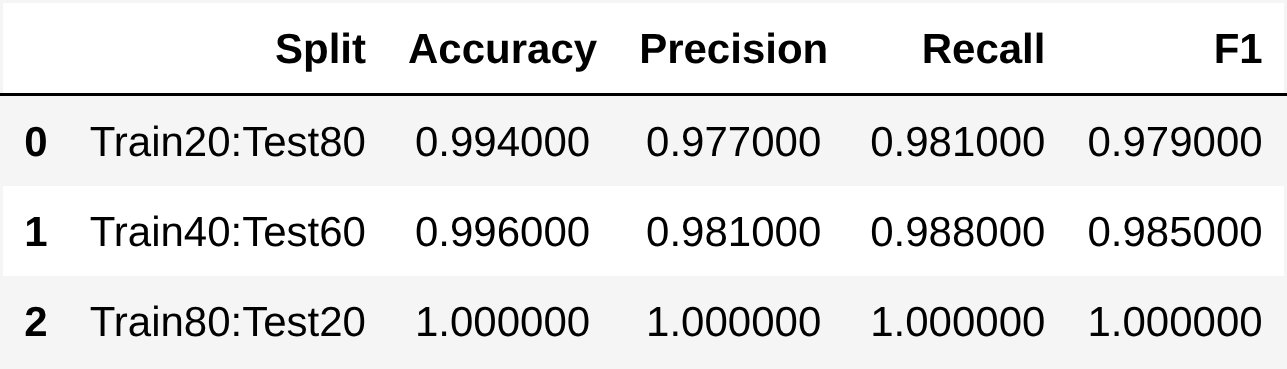
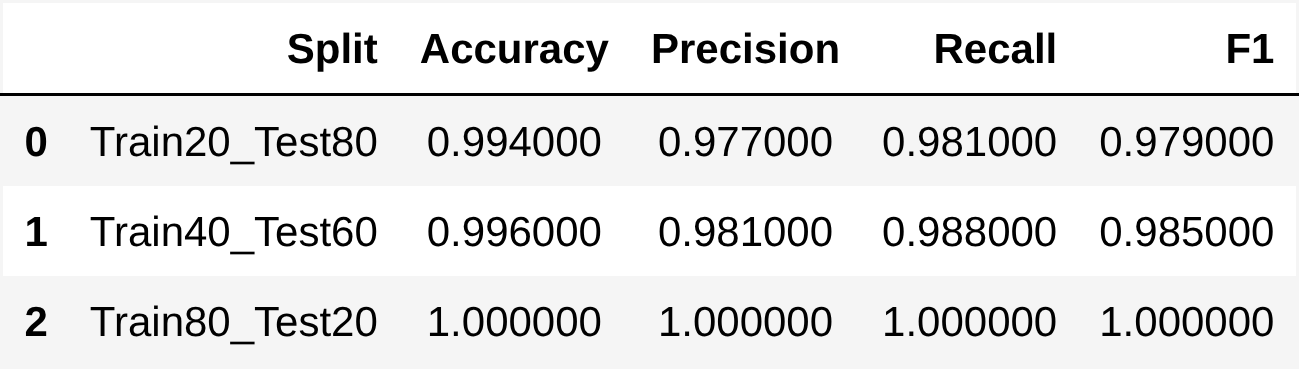
Changed paths so there are no more ':' in the file names

diff --git a/deliverables/scripts/GPC/gaussian-process-classification.py b/deliverables/scripts/GPC/gaussian-process-classification.py
@@ -174,7 +174,7 @@ output_dir = Path("../../../assets/GPC")
 df, x, y = load_dataset(data_path, target_column="HAB_Present")
 feature_names = df.drop(columns=["HAB_Present"]).columns.tolist()
 
-splits = {'Train20:Test80':0.2,'Train40:Test60':0.4,'Train80:Test20':0.8}
+splits = {'Train20_Test80':0.2,'Train40_Test60':0.4,'Train80_Test20':0.8}
 
 all_metrics = {}
 

diff --git a/deliverables/scripts/GPC/GPC_graphs.py b/deliverables/scripts/GPC/GPC_graphs.py
@@ -86,7 +86,7 @@ def save_split_results_table(results_dict, output_dir):
     dfi.export(styled_df, table_path, dpi=300)
 
 def generate_graphs_for_splits():
-    splits = ['Train20:Test80','Train40:Test60','Train80:Test20']
+    splits = ['Train20_Test80','Train40_Test60','Train80_Test20']
 
     output_dir = "../../../assets/GPC"
 

diff --git a/deliverables/scripts/GPC/GPC.md b/deliverables/scripts/GPC/GPC.md
@@ -9,9 +9,9 @@ Some limitations of GPC include its computational cost. The Gaussian Processes s
 
 #### kernel
 The kernel defines how similarity between input samples is measured. For this project, a composite kernel was used:
-- **Matern Kernel:** Chosen for flexibility. This kernel operates well with noisy, real-world biological data as it models less smooth functions.
-
 - **ConstantKernel:** Controls the overall magnitude of the function.
+
+- **Matern Kernel:** Chosen for flexibility. This kernel operates well with noisy, real-world biological data as it models less smooth functions.
 
 - **WhiteKernel:** Explicitly models observational noise, preventing overconfident predictions.
 
